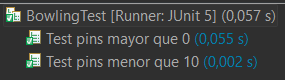
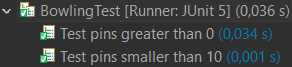
fotos de las pruebas bien

diff --git a/AIS-Practica3/src/test/java/es/codeurjc/ais/bowling/BowlingTest.java b/AIS-Practica3/src/test/java/es/codeurjc/ais/bowling/BowlingTest.java
@@ -13,21 +13,21 @@ class BowlingTest{
 	}
 	
 	@Test
-	@DisplayName("Test pins mayor que 0")
+	@DisplayName("Test pins greater than 0")
 	void testPins0() {
 		IllegalArgumentException ex = assertThrows(IllegalArgumentException.class, ()->bowling.throwing(-1));
 		assertEquals("Number must be greater than zero", ex.getMessage());
 	}
 	
 	@Test
-	@DisplayName("Test pins menor que 10")
+	@DisplayName("Test pins smaller than 10")
 	void testPins10() {
 		IllegalArgumentException ex = assertThrows(IllegalArgumentException.class, ()->bowling.throwing(11));
 		assertEquals("Number must be smaller than ten", ex.getMessage());
 	}
 	
 	@Test
-	@DisplayName("Test score = tiradas anteriores")
+	@DisplayName("Test score = sum of throws")
 	void testGetScore() {
 		bowling.throwing(4);
 		bowling.throwing(5);
@@ -37,7 +37,7 @@ class BowlingTest{
 	}
 	
 	@Test
-	@DisplayName("Test score = tiradas anteriores(2)")
+	@DisplayName("Test score = sum of throws(2)")
 	void testGetScore1() {
 		bowling.throwing(3);
 		bowling.throwing(3);
@@ -46,4 +46,14 @@ class BowlingTest{
 		assertEquals(14,bowling.getScore());
 	}
 	
+/*	@Test
+	@DisplayName("Pins in a turn <= 10")
+	void testPinsPerThrow() {
+		bowling.throwing(3);
+		bowling.throwing(3);
+		bowling.throwing(1);
+		bowling.throwing(7);
+		assertEquals(14,bowling.getScore());
+	}
+	*/
 }
